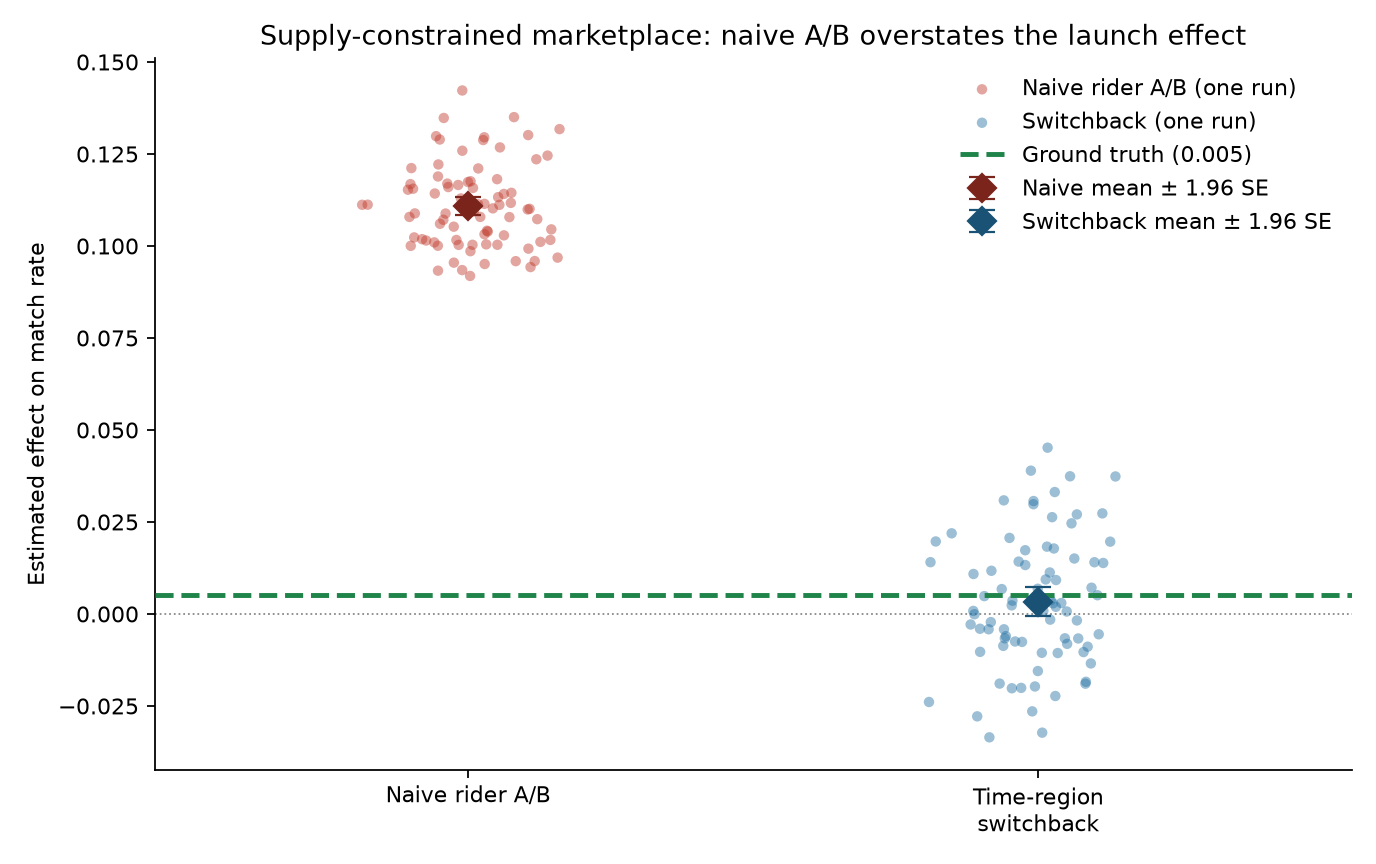
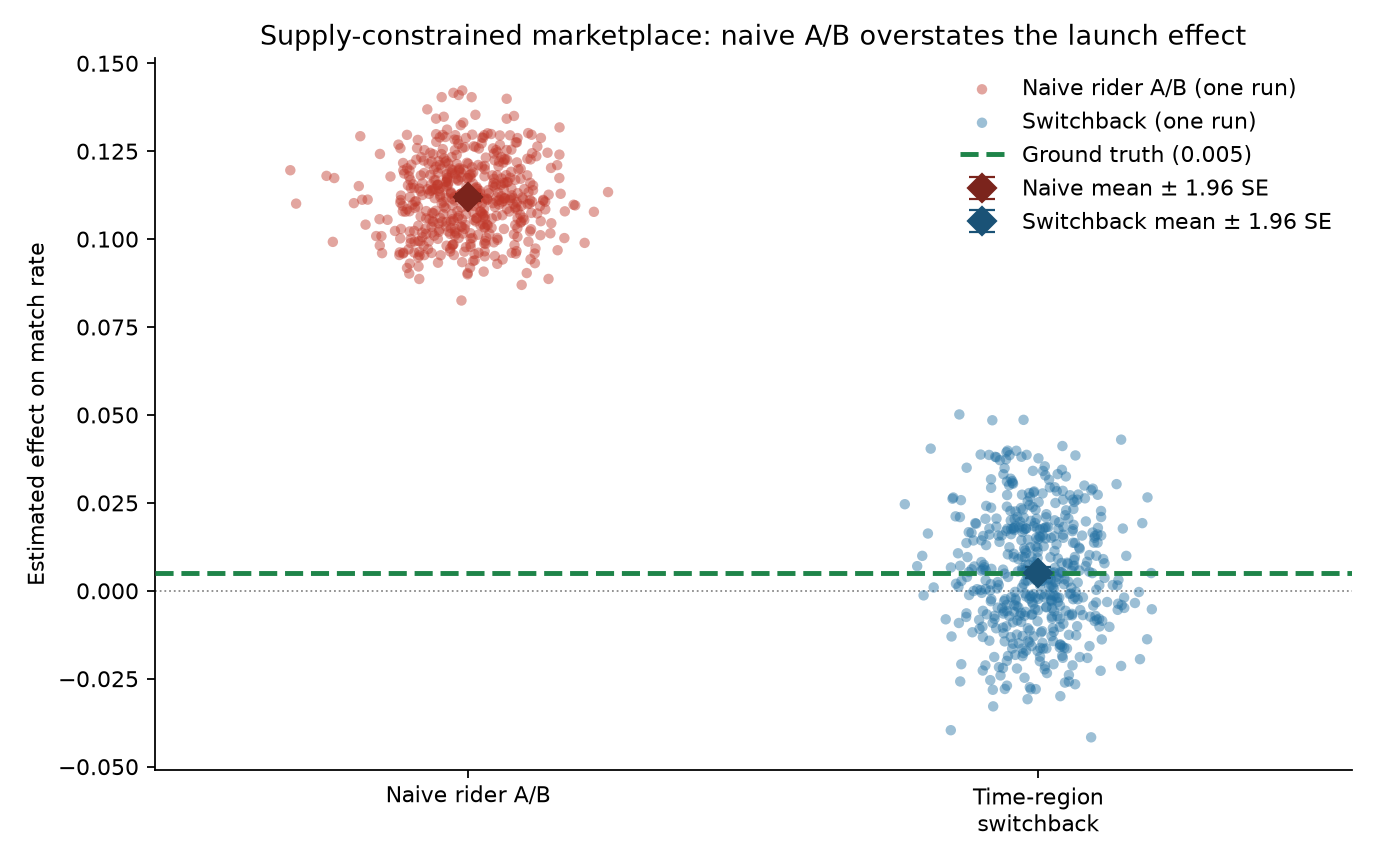
Add 95% coverage, bias, and RMSE to the headline table.
Five hundred marketplace runs: switchback intervals contain the known
ATE 96% of the time; naive rider A/B intervals, tight around +0.11,
contain it 0% of the time. Cut the redundant technical opener and
restore the null-check command in Install.

diff --git a/sbetoolkit/marketplace.py b/sbetoolkit/marketplace.py
@@ -278,24 +278,74 @@ class MarketplaceSimulator:
     def compare_estimators(self, n_reps: int = 64, seed: int = 1) -> pd.DataFrame:
         """Paired Monte Carlo of naive A/B vs switchback vs ground truth.
 
-        Ground truth is shared (computed once). Each replication redraws
-        cell sizes, matching, and the switchback assignment.
+        Each row is one experiment: point estimates, 95% Wald intervals,
+        and whether those intervals contain the known global ATE.
         """
-        truth = self.ground_truth(n_mc=60, seed=seed)
+        from sbetoolkit.inference import iid_ate
+
+        truth = self.ground_truth(n_mc=200, seed=seed)
+        truth_ate = truth["ate"]
         rows = []
         rng = np.random.default_rng(seed)
         for i in range(n_reps):
             s = int(rng.integers(0, 1_000_000_000))
             naive = self.run_naive_ab(seed=s)
             sw = self.run_switchback(seed=s + 1)
+            naive_est = iid_ate(naive["rider_y"], naive["rider_treatment"])
+            sw_est = sw["estimate"]
+            n_lo, n_hi = naive_est.interval()
+            s_lo, s_hi = sw_est.interval()
             rows.append(
                 {
                     "rep": i,
-                    "naive_ate": naive["ate"],
-                    "switchback_ate": sw["ate"],
-                    "truth_ate": truth["ate"],
-                    "naive_bias": naive["ate"] - truth["ate"],
-                    "switchback_bias": sw["ate"] - truth["ate"],
+                    "naive_ate": naive_est.ate,
+                    "naive_se": naive_est.se,
+                    "naive_lo": n_lo,
+                    "naive_hi": n_hi,
+                    "naive_covers": naive_est.covers(truth_ate),
+                    "switchback_ate": sw_est.ate,
+                    "switchback_se": sw_est.se,
+                    "switchback_lo": s_lo,
+                    "switchback_hi": s_hi,
+                    "switchback_covers": sw_est.covers(truth_ate),
+                    "truth_ate": truth_ate,
+                    "naive_bias": naive_est.ate - truth_ate,
+                    "switchback_bias": sw_est.ate - truth_ate,
                 }
             )
         return pd.DataFrame(rows)
+
+
+def summarize_estimators(comparison: pd.DataFrame) -> pd.DataFrame:
+    """Coverage, bias, and RMSE of naive A/B vs switchback vs truth."""
+    truth = float(comparison["truth_ate"].iloc[0])
+
+    def _row(name: str, ate: np.ndarray, covers: np.ndarray | None) -> dict:
+        err = ate - truth
+        return {
+            "estimator": name,
+            "mean": float(ate.mean()),
+            "bias": float(err.mean()),
+            "rmse": float(np.sqrt(np.mean(err**2))),
+            "coverage": float(covers.mean()) if covers is not None else float("nan"),
+        }
+
+    return pd.DataFrame(
+        [
+            _row(
+                "Naive rider A/B",
+                comparison["naive_ate"].to_numpy(),
+                comparison["naive_covers"].to_numpy(),
+            ),
+            _row(
+                "Time-region switchback",
+                comparison["switchback_ate"].to_numpy(),
+                comparison["switchback_covers"].to_numpy(),
+            ),
+            _row(
+                "Ground truth",
+                np.full(len(comparison), truth),
+                None,
+            ),
+        ]
+    )

diff --git a/sbetoolkit/cli.py b/sbetoolkit/cli.py
@@ -6,7 +6,7 @@ import argparse
 from pathlib import Path
 
 from sbetoolkit.calibration import empirical_power_check, type_i_null_check
-from sbetoolkit.marketplace import MarketplaceConfig, MarketplaceSimulator
+from sbetoolkit.marketplace import MarketplaceConfig, MarketplaceSimulator, summarize_estimators
 from sbetoolkit.plots import plot_empirical_power, plot_naive_vs_switchback, plot_type_i
 
 
@@ -25,8 +25,12 @@ def _chart(args: argparse.Namespace) -> int:
     comparison = sim.compare_estimators(n_reps=args.reps, seed=args.seed)
     out = Path(args.out)
     plot_naive_vs_switchback(comparison, path=out)
+    summary = summarize_estimators(comparison)
+    csv_path = out.with_suffix(".csv")
+    summary.to_csv(csv_path, index=False)
     print(f"wrote {out}")
-    print(comparison[["naive_ate", "switchback_ate", "truth_ate"]].agg(["mean", "std"]).to_string())
+    print(f"wrote {csv_path}")
+    print(summary.to_string(index=False))
     return 0
 
 
@@ -75,7 +79,7 @@ def main(argv: list[str] | None = None) -> int:
     args = p.parse_args(argv)
     if args.mode == "chart":
         args.out = args.out or "docs/naive_vs_switchback.png"
-        args.reps = 80 if args.reps is None else args.reps
+        args.reps = 500 if args.reps is None else args.reps
         return _chart(args)
     if args.mode == "null":
         args.out = args.out or "docs/type_i_null.png"

diff --git a/tests/test_marketplace.py b/tests/test_marketplace.py
@@ -55,6 +55,8 @@ def test_switchback_closer_to_truth_than_naive():
     naive_err = np.abs(df["naive_bias"]).mean()
     sw_err = np.abs(df["switchback_bias"]).mean()
     assert sw_err < naive_err / 2
+    assert "naive_covers" in df.columns
+    assert "switchback_covers" in df.columns
 
 
 def test_naive_understates_with_supply_spillover():
@@ -142,3 +144,26 @@ def test_marketplace_poisoned_washout_does_not_move_ate():
     # Ride-level arrays are already restricted to analysis_table blocks.
     analysis_ids = set(run["analysis"]["block_id"])
     assert set(run["rider_block"]).issubset(analysis_ids)
+
+
+def test_naive_intervals_miss_truth_switchback_covers():
+    from sbetoolkit.marketplace import summarize_estimators
+
+    sim = MarketplaceSimulator(
+        MarketplaceConfig(
+            n_regions=6,
+            n_periods=16,
+            riders_per_cell=32,
+            drivers_per_cell=14,
+            p_request_control=0.7,
+            p_request_treat=0.9,
+            seed=2,
+        )
+    )
+    df = sim.compare_estimators(n_reps=24, seed=2)
+    report = summarize_estimators(df)
+    naive = report.set_index("estimator").loc["Naive rider A/B"]
+    sw = report.set_index("estimator").loc["Time-region switchback"]
+    assert naive["coverage"] < 0.15
+    assert sw["coverage"] > 0.7
+    assert abs(naive["bias"]) > abs(sw["bias"])

diff --git a/sbetoolkit/__init__.py b/sbetoolkit/__init__.py
@@ -27,7 +27,7 @@ from sbetoolkit.calibration import (
 from sbetoolkit.cuped import cuped_adjust, cuped_theta
 from sbetoolkit.inference import Estimate, block_ate, clustered_ate, estimate_switchback, iid_ate
 from sbetoolkit.interference import InterferenceReport, diagnose_interference
-from sbetoolkit.marketplace import MarketplaceConfig, MarketplaceSimulator
+from sbetoolkit.marketplace import MarketplaceConfig, MarketplaceSimulator, summarize_estimators
 from sbetoolkit.power import PowerResult, switchback_power, switchback_sample_size
 from sbetoolkit.randomization import SwitchbackAssignment, assign_switchback
 from sbetoolkit.sequential import SequentialMonitor, spending_boundaries
@@ -53,6 +53,7 @@ __all__ = [
     "iid_ate",
     "null_config",
     "spending_boundaries",
+    "summarize_estimators",
     "switchback_power",
     "switchback_sample_size",
     "type_i_null_check",

diff --git a/tests/test_inference.py b/tests/test_inference.py
@@ -1,6 +1,6 @@
 import numpy as np
 
-from sbetoolkit.inference import block_ate, clustered_ate, iid_ate
+from sbetoolkit.inference import Estimate, block_ate, clustered_ate, iid_ate
 
 
 def _clustered_dgp(rng, n_blocks=80, m=40, icc_sd=0.2):
@@ -46,3 +46,12 @@ def test_iid_rejects_null_too_often_cluster_does_not():
     assert np.mean(iid_r) > 0.12
     assert 0.02 <= np.mean(cl_r) <= 0.10
     assert 0.02 <= np.mean(blk_r) <= 0.10
+
+
+def test_interval_covers_its_own_point_estimate():
+    est = Estimate(ate=0.2, se=0.05, z=4.0, pvalue=0.0, n_obs=100, n_clusters=100, method="iid")
+    lo, hi = est.interval()
+    assert lo < 0.2 < hi
+    assert abs((hi - lo) / 2 - 1.95996398454 * 0.05) < 1e-9
+    assert est.covers(0.2)
+    assert not est.covers(0.4)

diff --git a/sbetoolkit/inference.py b/sbetoolkit/inference.py
@@ -31,6 +31,17 @@ class Estimate:
     def reject(self, alpha: float = 0.05) -> bool:
         return self.pvalue < alpha
 
+    def interval(self, level: float = 0.95) -> tuple[float, float]:
+        """Wald interval ``ate ± z_{1-α/2} SE``."""
+        if not 0 < level < 1:
+            raise ValueError("level must be in (0, 1)")
+        z = float(norm.ppf(1 - (1 - level) / 2))
+        return (self.ate - z * self.se, self.ate + z * self.se)
+
+    def covers(self, truth: float, level: float = 0.95) -> bool:
+        lo, hi = self.interval(level)
+        return bool(lo <= truth <= hi)
+
 
 def _welch(y: np.ndarray, treatment: np.ndarray, method: str, n_clusters: int) -> Estimate:
     y = np.asarray(y, dtype=float)

diff --git a/README.md b/README.md
@@ -18,21 +18,19 @@ This library is the toolkit for that setting. It turns a policy on and off for a
 
 **References.** Marketplace interference: [Blake & Coey (2014)](https://doi.org/10.1145/2566486.2567967); causal effects when people affect each other: [Hudgens & Halloran (2008)](https://doi.org/10.1198/016214508000000292). Switchback design and analysis: [Bojinov, Simchi-Levi & Zhao (2023)](https://doi.org/10.1287/mnsc.2022.4583). CUPED: [Deng, Xu, Kohavi & Walker (2013)](https://doi.org/10.1145/2487575.2487651). Sequential testing: [Lan & DeMets (1983)](https://doi.org/10.1093/biomet/70.3.659). When to cluster: [Abadie, Athey, Imbens & Wooldridge (2023)](https://doi.org/10.1093/qje/qjac038).
 
-A 5% test analyzed at the ride level rejects a true-zero marketplace experiment **35% of the time**. That is what happens when you port ordinary product A/B tooling into a two-sided market: you randomized 500 time-region blocks and the SE pretends you have 41,000 independent rides. Cluster at the block and the same test rejects 4.7%. The point estimate is wrong for the same reason. Treated units steal scarce supply from control, so a naive rider split shows an 11pp match-rate win when launching the policy moves total matches by half a point. **Time-region switchbacks** with block-level SEs recover the global ATE and the nominal Type I rate.
-
 ## The chart
 
-Eighty simulated launches of a demand-side treatment in a **supply-constrained** market. Ground truth is the difference in match rate between an all-treat world and an all-control world.
+Five hundred simulated launches of a demand-side treatment in a **supply-constrained** market. Ground truth is the difference in match rate between an all-treat world and an all-control world. Every estimate ships a 95% interval; coverage is how often that interval actually contains the truth.
 
 ![Naive A/B vs switchback vs ground truth](docs/naive_vs_switchback.png)
 
-| Estimator | Mean estimated lift in match rate |
-| --- | ---: |
-| Naive rider A/B | **+0.111** |
-| Time-region switchback | **+0.003** |
-| Ground truth | **+0.005** |
+| Estimator | Mean | Bias | RMSE | 95% coverage |
+| --- | ---: | ---: | ---: | ---: |
+| Naive rider A/B | **+0.112** | **+0.107** | **0.107** | **0%** |
+| Time-region switchback | **+0.005** | **+0.000** | **0.017** | **96%** |
+| Ground truth | **+0.005** | — | — | — |
 
-Naive A/B is precise and wrong: treated riders crowd out control riders for the same drivers, so the within-cell gap looks like an 11pp win. The launch does almost nothing for total matches — the market was already saturated. Switchback is noisier and unbiased.
+Naive A/B is precise and wrong: treated riders crowd out control riders for the same drivers, so the within-cell gap looks like an 11pp win. Its intervals are tight around that wrong number, so they almost never contain the launch effect. Switchback is noisier; the interval does the job a PM reads it for.
 
 That is the whole interview. The rest of the README is how to compute it.
 
@@ -101,6 +99,7 @@ Raw rates: `docs/empirical_power.csv`.
 pip install -e ".[dev]"
 python -m pytest
 python -m sbetoolkit.cli --mode chart --out docs/naive_vs_switchback.png
+python -m sbetoolkit.cli --mode null --reps 1000 --seed 11 --out docs/type_i_null.png
 python -m sbetoolkit.cli --mode power --reps 500 --seed 13 --out docs/empirical_power.png
 ```
 
@@ -189,12 +188,13 @@ Families: `obrien_fleming`, `pocock`, `kim_deMets` (power spending `α t^ρ`).
 ## Reproduce the chart
 
 ```python
-from sbetoolkit import MarketplaceConfig, MarketplaceSimulator
+from sbetoolkit import MarketplaceConfig, MarketplaceSimulator, summarize_estimators
 from sbetoolkit.plots import plot_naive_vs_switchback
 
 sim = MarketplaceSimulator(MarketplaceConfig(seed=7))
-df = sim.compare_estimators(n_reps=80, seed=7)
+df = sim.compare_estimators(n_reps=500, seed=7)
+print(summarize_estimators(df))
 plot_naive_vs_switchback(df, path="docs/naive_vs_switchback.png")
 ```
 
-`compare_estimators` draws naive rider splits and switchback assignments on the same class of market primitives and compares both to a Monte Carlo global ATE.
+`compare_estimators` draws naive rider splits and switchback assignments on the same class of market primitives and compares both to a Monte Carlo global ATE. Coverage is the share of 95% intervals that contain that ATE.
